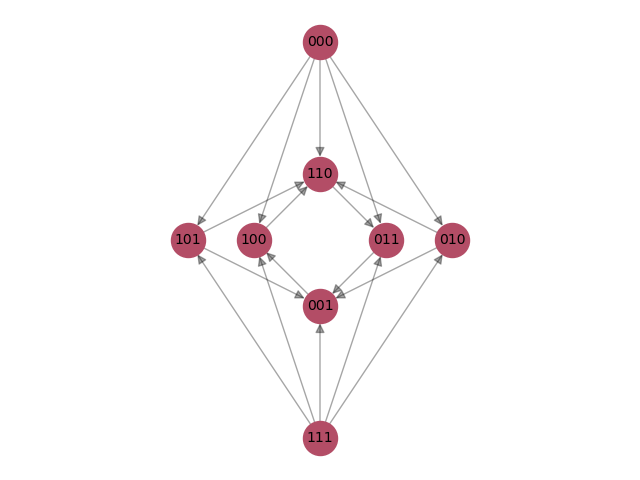
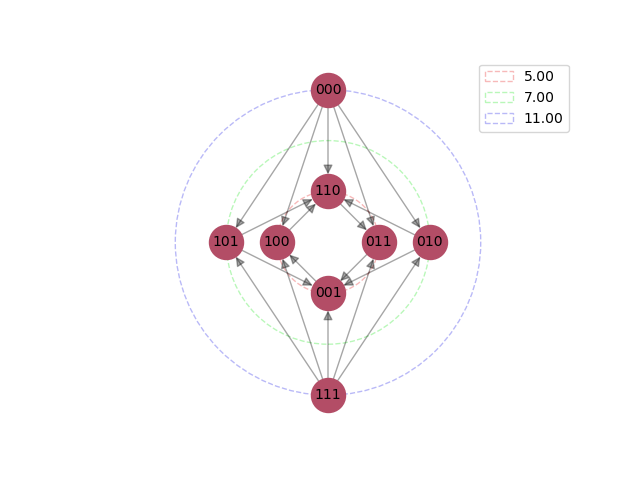
now plotting heirarchies as well

diff --git a/graphs_computations.py b/graphs_computations.py
@@ -4,6 +4,7 @@ import math
 from typing import List
 import networkx
 from itertools import count
+import colors
 
 class VictoryGraph(dict):
 
@@ -19,12 +20,18 @@ class VictoryGraph(dict):
             hierarchy -= set(ret)
         return ret
 
-    def plot(self,hierarchies:List[set]=None):
+    def plot(self,hierarchies:List[set]=None,hierarchy_values:List[float]=None):
         networkx_graph = self.to_networkx_graph()
 
         if hierarchies is not None:
+            colors_iter = colors.make_iter()
             hierarchies = [self.orgenise_hierarchy(h) for h in hierarchies]
-            pos = networkx.shell_layout(networkx_graph, nlist=hierarchies, rotate=math.pi/2)
+            pos = networkx.shell_layout(networkx_graph, nlist=hierarchies, rotate=math.pi/3)
+            for hei,val in zip(hierarchies,hierarchy_values):
+                radius = (pos[hei[0]][0]**2 + pos[hei[0]][1]**2)**0.5
+                ring = plt.Circle((0,0),radius,fill=False,label="{:.2f}".format(val),linestyle="--",alpha=0.3,color=next(colors_iter))
+                plt.gca().add_patch(ring)
+            plt.legend()
         else:
             pos = networkx.kamada_kawai_layout(networkx_graph)
 

diff --git a/single_target_distributions.py b/single_target_distributions.py
@@ -62,7 +62,9 @@ def get_target_str_hierarchy(targets_histograms_dict, targets_histograms_dict_bi
         hist, error_arr = targets_histograms_dict[target_str],targets_histograms_dict_bin_errors[target_str]
         mean, mean_error = get_com_with_error(hist, error_arr)
         segments_dict[target_str] = (mean - mean_error, mean + mean_error)
-    return split_into_hierarchies(segments_dict)
+    hierarchies = split_into_hierarchies(segments_dict)
+    hierarchy_values = [np.mean(segments_dict[hei[0]]) for hei in hierarchies]
+    return hierarchies,hierarchy_values
 
 
 def split_into_hierarchies(segments_dict):
@@ -101,4 +103,3 @@ if __name__ == "__main__":
     plot_single_target_distribution(*hist_dat_111,label="111")
 
     plt.legend()
-    # hierarchies = get_target_str_hierarchy(set_operations.get_all_n_digit_strings(3), 0.01)

diff --git a/run.py b/run.py
@@ -35,8 +35,8 @@ for target in histograms_to_plot:
     plt.legend()
 plt.figure()
 
-hierarchies = single_target_distributions.get_target_str_hierarchy(single_player_distributions,single_player_distributions_errors)
+hierarchies,hierarchy_values = single_target_distributions.get_target_str_hierarchy(single_player_distributions,single_player_distributions_errors)
 victory_graph = game_statistics.get_victory_graph()
 victory_graph.print()
-victory_graph.plot(hierarchies)
-# print("number of loops is ",victory_graph.get_number_of_loops())
+victory_graph.plot(hierarchies,hierarchy_values)
+print("number of loops is ",victory_graph.get_number_of_loops())

diff --git a/colors.py b/colors.py
@@ -1,3 +1,5 @@
 import itertools
 alpha = 0.5
-colors = itertools.cycle([(0.9,0.1,0.1,alpha),(0.1,0.9,0.1,alpha),(0.1,0.1,0.9,alpha),(0.7,0.7,0.1,alpha),(0.7,0.1,0.7,alpha),(0.1,0.7,0.7,alpha),(0.5,0.5,0.5,alpha)])
+def make_iter():
+    return itertools.cycle([(0.9,0.1,0.1,alpha),(0.1,0.9,0.1,alpha),(0.1,0.1,0.9,alpha),(0.7,0.7,0.1,alpha),(0.7,0.1,0.7,alpha),(0.1,0.7,0.7,alpha),(0.5,0.5,0.5,alpha)])
+colors = make_iter()
